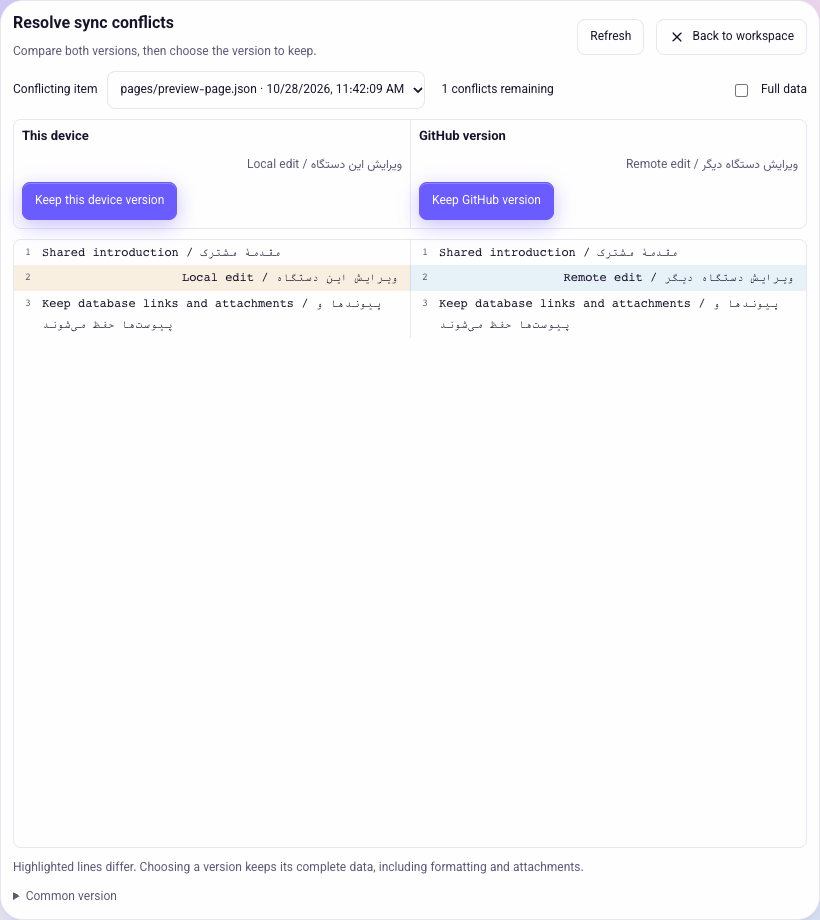
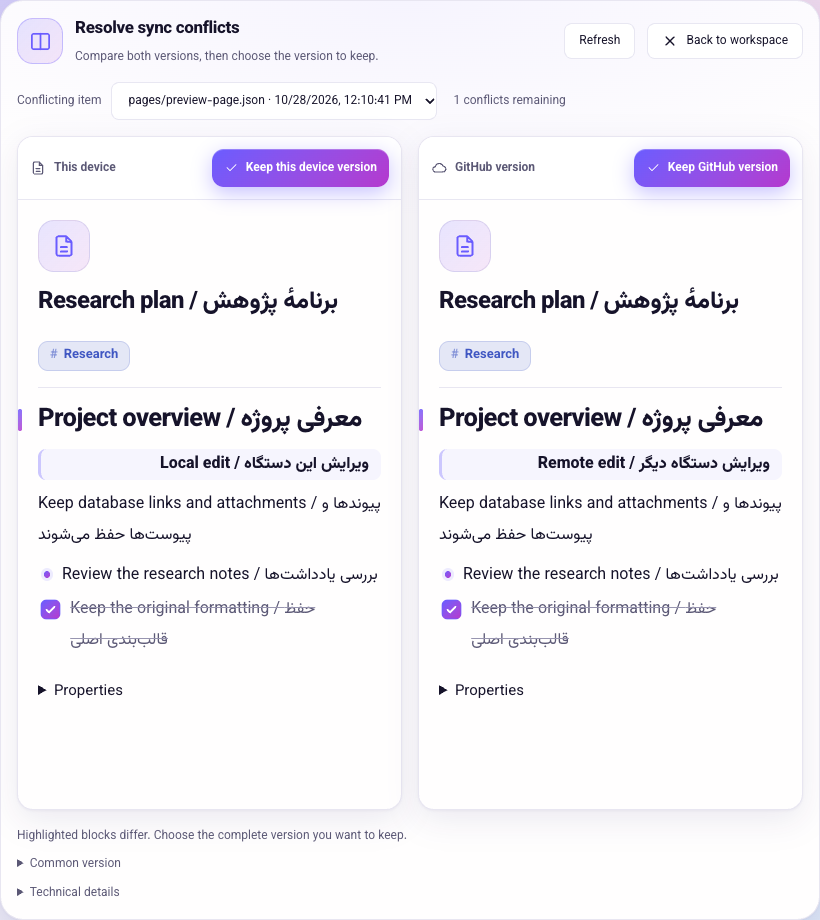
fix(ui): render conflict documents and add manual desktop builds

diff --git a/spike/tiptap/src/styles/conflict-review.css b/spike/tiptap/src/styles/conflict-review.css
@@ -1,13 +1,13 @@
-.conflict-review { display:flex; flex-direction:column; height:100%; min-height:0; color:var(--text); background:var(--bg); padding:20px; gap:16px; }
-.conflict-review button { display:inline-flex; align-items:center; justify-content:center; gap:7px; padding:8px 12px; border:1px solid var(--border); border-radius:var(--radius-sm); background:var(--bg); color:var(--text); cursor:pointer; font:inherit; font-size:12px; }
-.conflict-review button.primary { background:var(--accent); color:var(--on-accent, #fff); border-color:var(--accent); }
-.conflict-review button:disabled { opacity:.5; cursor:default; }
-.conflict-review :is(button,select,input,[tabindex]):focus-visible { outline:2px solid var(--accent); outline-offset:3px; }
-.cr-toolbar { display:flex; align-items:center; gap:12px; flex-wrap:wrap; }
-.cr-toolbar h2 { margin:0; font-size:19px; }.cr-toolbar p { color:var(--muted); margin:6px 0 0; font-size:12px; }
-.cr-selector { display:flex; align-items:center; gap:16px; flex-wrap:wrap; font-size:12px; }.cr-selector label { display:flex; align-items:center; gap:10px; min-width:0; }.cr-selector select { max-width:min(480px,55vw); min-width:0; background:var(--bg); color:var(--text); border:1px solid var(--border); border-radius:var(--radius-sm); padding:8px; }.cr-raw { margin-inline-start:auto; }
-.cr-headings { display:grid; grid-template-columns:minmax(0,1fr) minmax(0,1fr); border:1px solid var(--border); border-radius:var(--radius-sm); }.cr-headings>div { display:flex; flex-wrap:wrap; align-items:center; gap:8px 12px; padding:12px; min-width:0; }.cr-headings>div+div { border-left:1px solid var(--border); }.cr-headings b { font-size:13px; }.cr-headings span { width:100%; overflow-wrap:anywhere; font-size:12px; color:var(--muted); }.cr-headings small { width:100%; font-size:11px; color:var(--muted); }
-.cr-diff { flex:1; min-height:150px; overflow:auto; border:1px solid var(--border); border-radius:var(--radius-sm); font-family:var(--font-mono, monospace); font-size:12px; line-height:1.8; }.cr-line { display:grid; grid-template-columns:minmax(0,1fr) minmax(0,1fr); }.cr-line>div { display:flex; min-width:0; padding:2px 12px 2px 0; }.cr-line>div+div { border-left:1px solid var(--border); }.cr-line>div>span:last-child { white-space:pre-wrap; overflow-wrap:anywhere; flex:1; min-width:0; }.cr-number { flex:0 0 44px; text-align:center; color:var(--muted); user-select:none; font-size:10px; }.cr-line.changed>div:first-child { background:color-mix(in srgb, #d69b35 15%,var(--bg)); }.cr-line.changed>div:last-child { background:color-mix(in srgb, #56a6d9 15%,var(--bg)); }.cr-line.changed>div.gap { background:var(--hover); }
-.cr-footer { color:var(--muted); font-size:12px; line-height:1.7; }.cr-footer details { margin-top:8px; }.cr-footer pre { max-height:180px; overflow:auto; white-space:pre-wrap; overflow-wrap:anywhere; }.cr-empty { margin:auto; text-align:center; }.cr-error { padding:12px; background:var(--accent-bg); border:1px solid var(--border); border-radius:var(--radius-sm); overflow-wrap:anywhere; }
+/* Aurora Paper: shared editor typography, neutral paper surfaces and the user's accent. */
+.conflict-review { display:flex; flex-direction:column; height:100%; min-height:0; padding:24px; gap:20px; color:var(--text); font-family:var(--font); }
+.conflict-review button:not(.primary) { display:inline-flex; align-items:center; justify-content:center; gap:8px; padding:8px 14px; border:1px solid var(--border); border-radius:var(--radius-sm); background:var(--bg-raised); color:var(--text); font:inherit; font-size:12px; cursor:var(--cursor-hand,pointer); transition:background .15s var(--ease),border-color .15s var(--ease); }
+.conflict-review button:not(.primary):hover { background:var(--hover); border-color:var(--border-strong); }.conflict-review button:disabled { opacity:.45; cursor:default; }
+.cr-toolbar { display:flex; align-items:center; gap:12px; flex-wrap:wrap; }.cr-feature-icon { display:grid; place-items:center; flex:none; width:46px; height:46px; border:1px solid var(--accent-ring); border-radius:var(--radius-lg); background:var(--grad-soft); color:var(--accent); }.cr-toolbar h2 { margin:0; font-size:19px; font-weight:800; letter-spacing:-.02em; }.cr-toolbar p { color:var(--muted); margin:5px 0 0; font-size:12px; }
+.cr-selector { display:flex; align-items:center; gap:16px; flex-wrap:wrap; font-size:12px; color:var(--muted); }.cr-selector label { display:flex; align-items:center; gap:10px; min-width:0; }.cr-selector select { max-width:min(480px,55vw); min-width:0; padding:8px 12px; border:1px solid var(--border); border-radius:var(--radius-sm); background:var(--bg-raised); color:var(--text); }
+.cr-panes { display:grid; grid-template-columns:minmax(0,1fr) minmax(0,1fr); gap:16px; flex:1; min-height:180px; }.cr-pane { display:flex; flex-direction:column; min-width:0; min-height:0; overflow:hidden; border:1px solid var(--border); border-radius:var(--radius-lg); background:var(--bg); box-shadow:var(--panel-shadow); }.cr-pane-head { display:flex; align-items:center; justify-content:space-between; flex-wrap:wrap; gap:12px; padding:14px 16px; border-bottom:1px solid var(--border); background:var(--bg-raised); }.cr-side-label { display:flex; align-items:center; gap:8px; font-size:12px; color:var(--muted); }.cr-pane-head .primary { display:inline-flex; align-items:center; gap:7px; font-size:12px; padding:8px 12px; }
+.cr-pane-scroll { flex:1; min-height:0; overflow:auto; scrollbar-gutter:stable; }.cr-document { padding:28px; overflow-wrap:anywhere; }.cr-document .title { font-size:clamp(24px,2.7vw,36px); margin:12px 0; }.cr-page-icon { display:inline-flex; padding:12px; background:var(--grad-soft); color:var(--accent); border:1px solid var(--border); border-radius:var(--radius-lg); }.cr-page-meta { display:flex; align-items:center; flex-wrap:wrap; gap:8px; padding-bottom:16px; margin-bottom:16px; border-bottom:1px solid var(--border); font-size:12px; color:var(--muted); }.cr-document .tiptap { min-height:0; }.cr-document .tiptap> :first-child { margin-top:0; }.cr-document .tiptap>.cr-block-changed { background:var(--accent-soft); border-inline-start:3px solid var(--accent-ring); border-radius:var(--radius-sm); padding-inline:12px; }.cr-document .tiptap [data-type='database-embed'] { min-height:56px; border:1px solid var(--border); border-radius:var(--radius); background:var(--bg-sunk); }.cr-document .tiptap [data-type='database-embed']::before { content:attr(data-container); font-size:12px; color:var(--muted); padding:12px; display:block; }.cr-document .tiptap input:disabled { cursor:default; }
+.cr-fields { margin:0; }.cr-fields>div { padding:12px 0; border-bottom:1px solid var(--border); }.cr-fields dt { color:var(--muted); font-size:12px; margin-bottom:6px; }.cr-fields dd { margin:0; font-size:14px; }.cr-fields .cr-fields { margin-inline-start:12px; }.cr-field-empty { color:var(--faint); }.cr-plain-text { white-space:pre-wrap; font-size:var(--editor-size,16px); line-height:1.8; }.cr-properties { margin-top:24px; }.cr-version-empty { display:grid; place-content:center; min-height:200px; padding:24px; text-align:center; color:var(--muted); font-size:13px; }
+.cr-footer { color:var(--muted); font-size:12px; line-height:1.7; max-height:25vh; overflow:auto; }.cr-footer details { margin-top:8px; }.cr-footer summary { cursor:var(--cursor-hand,pointer); }.cr-footer pre { max-height:180px; overflow:auto; white-space:pre-wrap; overflow-wrap:anywhere; font-family:var(--mono); }.cr-technical { display:grid; grid-template-columns:minmax(0,1fr) minmax(0,1fr); gap:16px; margin-top:12px; }.cr-empty { margin:auto; text-align:center; }.cr-empty svg { color:var(--ok); }.cr-error { padding:12px; background:var(--accent-bg); border:1px solid var(--border); border-radius:var(--radius); overflow-wrap:anywhere; }
 .sync-conflict { color:var(--accent); }.main:has(.conflict-review)>.scroller { display:flex; flex:1; min-height:0; overflow:hidden; }.main:has(.conflict-review) .conflict-review { flex:1; min-width:0; }
-@media(max-width:900px) { .conflict-review { padding:12px; gap:10px; }.cr-toolbar h2 { font-size:16px; }.cr-headings>div { padding:8px; }.cr-number { flex-basis:28px; } }
+@media(max-width:1000px) { .conflict-review { padding:16px; gap:16px; }.cr-document { padding:20px; }.cr-pane-head { padding:12px; }.cr-toolbar h2 { font-size:17px; } }
+@media(prefers-reduced-motion:reduce) { .conflict-review button { transition:none; } }

diff --git a/spike/tiptap/src/ConflictReview.tsx b/spike/tiptap/src/ConflictReview.tsx
@@ -3,6 +3,7 @@ import { repo } from './store'
 import { t } from './i18n'
 import { githubAction, saveForSync, type SyncConflict } from './syncActions'
 import { compareLines, conflictVersion } from './conflictDiff'
+import { ConflictDocument } from './ConflictDocument'
 import * as Ic from './icons'
 import './styles/conflict-review.css'
 
@@ -12,7 +13,6 @@ export function ConflictReview({ onClose }: { onClose: () => void }) {
   const [busy, setBusy] = useState(false)
   const [error, setError] = useState('')
   const [loading, setLoading] = useState(true)
-  const [raw, setRaw] = useState(false)
   const alive = useRef(true)
   const refresh = useCallback(async () => {
     const next = await githubAction<SyncConflict[]>('conflicts')
@@ -29,7 +29,14 @@ export function ConflictReview({ onClose }: { onClose: () => void }) {
   const conflict = rows.find(c => c.id === selected)
   const left = useMemo(() => conflictVersion(conflict?.local ?? null), [conflict?.local])
   const right = useMemo(() => conflictVersion(conflict?.remote ?? null), [conflict?.remote])
-  const diff = useMemo(() => compareLines(raw ? left.raw : left.text, raw ? right.raw : right.text), [left, right, raw])
+  const changes = useMemo(() => {
+    const blocks = (raw: string) => { try { const v = JSON.parse(raw); return (v.type === 'doc' ? v.content : v.content?.content)?.map((b: unknown) => JSON.stringify(b)).join('\n') ?? '' } catch { return '' } }
+    const aligned = compareLines(blocks(left.raw), blocks(right.raw))
+    const local: number[] = [], remote: number[] = []
+    let l = 0, r = 0
+    for (const row of aligned) { if (row.left !== null) { if (row.changed) local.push(l); l++ }; if (row.right !== null) { if (row.changed) remote.push(r); r++ } }
+    return { local, remote }
+  }, [left.raw, right.raw])
   const resolve = async (choice: string) => {
     if (!conflict || busy) return
     setBusy(true); setError('')
@@ -40,24 +47,21 @@ export function ConflictReview({ onClose }: { onClose: () => void }) {
       await refresh()
     } catch (e) { setError(String(e)) } finally { setBusy(false) }
   }
-  let localLine = 0, remoteLine = 0
   return <section className="conflict-review" aria-label={t('Resolve sync conflicts')}>
-    <header className="cr-toolbar"><div><h2>{t('Resolve sync conflicts')}</h2><p>{t('Compare both versions, then choose the version to keep.')}</p></div><span className="spacer" /><button disabled={busy} onClick={() => void refresh().catch(e => setError(String(e)))}>{t('Refresh')}</button><button disabled={busy} onClick={onClose}><Ic.Close size={16} />{t('Back to workspace')}</button></header>
+    <header className="cr-toolbar"><span className="cr-feature-icon"><Ic.Columns size={23} /></span><div><h2>{t('Resolve sync conflicts')}</h2><p>{t('Compare both versions, then choose the version to keep.')}</p></div><span className="spacer" /><button disabled={busy} onClick={() => void refresh().catch(e => setError(String(e)))}>{t('Refresh')}</button><button disabled={busy} onClick={onClose}><Ic.Close size={16} />{t('Back to workspace')}</button></header>
     {error && <div role="alert" className="cr-error">{error}</div>}
     {loading ? <p role="status">{t('Loading…')}</p> : !conflict ? <div className="cr-empty" role="status"><Ic.Check size={32} /><h3>{t('No unresolved conflicts.')}</h3><button onClick={onClose}>{t('Back to workspace')}</button></div> : <>
-      <div className="cr-selector"><label>{t('Conflicting item')}<select value={selected} disabled={busy} onChange={e => setSelected(e.target.value)}>{rows.map(c => <option key={c.id} value={c.id}>{c.path} · {new Date(c.createdAt).toLocaleString()}</option>)}</select></label><span>{t('{count} conflicts remaining', { count: rows.length })}</span><label className="cr-raw"><input type="checkbox" checked={raw} onChange={e => setRaw(e.target.checked)} />{t('Full data')}</label></div>
-      <div className="cr-headings" dir="ltr">{(['local', 'remote'] as const).map(side => {
-        const version = side === 'local' ? left : right
-        const absent = conflict[side] === null
-        return <div key={side} dir="auto"><b>{t(side === 'local' ? 'This device' : 'GitHub version')}</b><span dir="auto">{version.title || conflict.path}</span><button className="primary" disabled={busy || (absent && !conflict.deleted)} onClick={() => void resolve(absent ? 'delete' : side)}>{t(absent ? 'Keep deletion' : side === 'local' ? 'Keep this device version' : 'Keep GitHub version')}</button>{absent && <small>{t('This version has no file.')}</small>}{version.binary && <small>{t('Binary attachment — choose a version or inspect the original file.')}</small>}</div>
-      })}</div>
-      <div className="cr-diff" dir="ltr" role="region" aria-label={t('Version comparison')} tabIndex={0}>
-        {diff.map((line, i) => <div className={'cr-line' + (line.changed ? ' changed' : '')} key={i}>
-          <div className={line.left === null ? 'gap' : ''}><span className="cr-number" aria-hidden="true">{line.left !== null ? ++localLine : ''}</span><span dir="auto">{line.left ?? ' '}</span></div>
-          <div className={line.right === null ? 'gap' : ''}><span className="cr-number" aria-hidden="true">{line.right !== null ? ++remoteLine : ''}</span><span dir="auto">{line.right ?? ' '}</span></div>
-        </div>)}
+      <div className="cr-selector"><label>{t('Conflicting item')}<select value={selected} disabled={busy} onChange={e => setSelected(e.target.value)}>{rows.map(c => <option key={c.id} value={c.id}>{c.path} · {new Date(c.createdAt).toLocaleString()}</option>)}</select></label><span>{t('{count} conflicts remaining', { count: rows.length })}</span></div>
+      <div className="cr-panes" dir="ltr" role="region" aria-label={t('Version comparison')}>
+        {(['local', 'remote'] as const).map(side => {
+          const absent = conflict[side] === null
+          return <section className="cr-pane" key={side} dir="auto" aria-label={t(side === 'local' ? 'This device' : 'GitHub version')}>
+            <header className="cr-pane-head"><span className="cr-side-label">{side === 'local' ? <Ic.Page size={16} /> : <Ic.Cloud size={16} />}<b>{t(side === 'local' ? 'This device' : 'GitHub version')}</b></span><button className="primary" disabled={busy || (absent && !conflict.deleted)} onClick={() => void resolve(absent ? 'delete' : side)}><Ic.Check size={15} />{t(absent ? 'Keep deletion' : side === 'local' ? 'Keep this device version' : 'Keep GitHub version')}</button></header>
+            <div className="cr-pane-scroll" tabIndex={0}><ConflictDocument encoded={conflict[side]} changed={changes[side]} /></div>
+          </section>
+        })}
       </div>
-      <footer className="cr-footer">{conflict.deleted && conflict.local !== null && conflict.remote !== null && <button disabled={busy} onClick={() => void resolve('delete')}>{t('Keep deletion')}</button>}<span>{t('Highlighted lines differ. Choosing a version keeps its complete data, including formatting and attachments.')}</span><details><summary>{t('Common version')}</summary><pre dir="auto">{conflictVersion(conflict.base).raw || t('Version unavailable')}</pre></details></footer>
+      <footer className="cr-footer">{conflict.deleted && conflict.local !== null && conflict.remote !== null && <button disabled={busy} onClick={() => void resolve('delete')}>{t('Keep deletion')}</button>}<span>{t('Highlighted blocks differ. Choose the complete version you want to keep.')}</span><details><summary>{t('Common version')}</summary><ConflictDocument encoded={conflict.base} /></details><details><summary>{t('Technical details')}</summary><div className="cr-technical">{(['local', 'remote'] as const).map(side => <div key={side}><b>{t(side === 'local' ? 'This device' : 'GitHub version')}</b><pre dir="ltr">{conflictVersion(conflict[side]).raw || t('Version unavailable')}</pre></div>)}</div></details></footer>
     </>}
   </section>
 }

diff --git a/spike/tiptap/src/ConflictDocument.tsx b/spike/tiptap/src/ConflictDocument.tsx
@@ -1,0 +1,42 @@
+import { useEffect, useMemo, useRef } from 'react'
+import { docToHtml, hydrate } from './render'
+import { contentProblem } from './editor/contentSafety'
+import { extensions } from './editor/extensions'
+import { getSchema } from '@tiptap/core'
+import { conflictVersion } from './conflictDiff'
+import { iconNode } from './iconSet'
+import { t } from './i18n'
+import * as Ic from './icons'
+
+function Fields({ value }: { value: unknown }) {
+  if (value === null || value === undefined) return <span className="cr-field-empty">—</span>
+  if (typeof value !== 'object') return <span dir="auto">{typeof value === 'boolean' ? t(value ? 'Yes' : 'No') : String(value)}</span>
+  return <dl className="cr-fields">{Object.entries(value).map(([key, field]) => <div key={key}><dt>{t(key.replace(/([a-z])([A-Z])/g, '$1 $2').replaceAll('_', ' '))}</dt><dd><Fields value={field} /></dd></div>)}</dl>
+}
+export function ConflictDocument({ encoded, changed = [] }: { encoded: string | null; changed?: number[] }) {
+  const root = useRef<HTMLDivElement>(null)
+  const version = useMemo(() => conflictVersion(encoded), [encoded])
+  const data = useMemo(() => { try { return JSON.parse(version.raw) } catch { return null } }, [version.raw])
+  const tags: string[] = Array.isArray(data?.tags) ? data.tags.filter((tag: unknown) => typeof tag === 'string') : []
+  const content = data?.type === 'doc' ? data : data?.content
+  const html = useMemo(() => {
+    if (!content || contentProblem(content, getSchema(extensions))) return null
+    return docToHtml(content)
+  }, [content])
+  useEffect(() => {
+    const element = root.current
+    if (!element || html === null) return
+    // Use the same schema/styles/hydration as the editor's history preview. No save callback or mutable database UI is mounted.
+    Array.from(element.children).forEach((child, index) => child.classList.toggle('cr-block-changed', changed.includes(index)))
+    for (const input of element.querySelectorAll('input')) input.disabled = true
+    void hydrate(element).catch(() => {})
+  }, [html, changed])
+  if (encoded === null) return <div className="cr-version-empty"><p>{t('This version has no file.')}</p></div>
+  if (version.binary) return <div className="cr-version-empty"><p>{t('Binary attachment — choose a version or inspect the original file.')}</p></div>
+  return <article className="cr-document" dir="auto">
+    {version.title && <header className="page-head"><div className="cr-page-icon">{typeof data.icon === 'string' && data.icon ? iconNode(data.icon, 26) : <Ic.Page size={26} />}</div><h1 className="title" dir={data.titleDir || 'auto'}>{version.title}</h1></header>}
+    {(tags.length > 0 || typeof data?.status === 'string') && <div className="cr-page-meta">{tags.map((tag: string) => <span className="tag-chip static" key={tag}>{tag}</span>)}{typeof data?.status === 'string' && <span>{t(data.status)}</span>}</div>}
+    {html !== null ? <div ref={root} className="tiptap" onClick={e => { if ((e.target as Element).closest('a')) e.preventDefault() }} dangerouslySetInnerHTML={{ __html: html }} /> : data ? <Fields value={data} /> : <p className="cr-plain-text">{version.text}</p>}
+    {html !== null && data?.database && <details className="cr-properties"><summary>{t('Properties')}</summary><Fields value={data.database} /></details>}
+  </article>
+}

diff --git a/spike/tiptap/dev/github-sync-preview.tsx b/spike/tiptap/dev/github-sync-preview.tsx
@@ -3,7 +3,7 @@ const params = new URLSearchParams(location.search)
 const scenario = params.get('state') ?? 'connected'
 const lang = params.get('lang') === 'fa' ? 'fa' : 'en'
 localStorage.setItem('not.settings', JSON.stringify({ lang, theme: params.get('theme') ?? 'light', dir: 'auto' }))
-const version = (title: string) => btoa(unescape(encodeURIComponent(JSON.stringify({ id: 'preview-page', title, parentId: null, tags: ['Research'], content: { type: 'doc', content: [{ type: 'paragraph', content: [{ type: 'text', text: 'Shared introduction / مقدمهٔ مشترک' }] }, { type: 'paragraph', content: [{ type: 'text', text: title }] }, { type: 'paragraph', content: [{ type: 'text', text: 'Keep database links and attachments / پیوندها و پیوستها حفظ میشوند' }] }] }, database: { sourceId: 'source-1', values: { status: 'draft' } } }))))
+const version = (title: string) => btoa(unescape(encodeURIComponent(JSON.stringify({ id: 'preview-page', title: 'Research plan / برنامهٔ پژوهش', parentId: null, tags: ['Research'], content: { type: 'doc', content: [{ type: 'heading', attrs: { level: 2 }, content: [{ type: 'text', text: 'Project overview / معرفی پروژه' }] }, { type: 'paragraph', content: [{ type: 'text', marks: [{ type: 'bold' }], text: title }] }, { type: 'paragraph', content: [{ type: 'text', text: 'Keep database links and attachments / پیوندها و پیوستها حفظ میشوند' }] }, { type: 'bulletList', content: [{ type: 'listItem', content: [{ type: 'paragraph', content: [{ type: 'text', text: 'Review the research notes / بررسی یادداشتها' }] }] }] }, { type: 'taskList', content: [{ type: 'taskItem', attrs: { checked: true }, content: [{ type: 'paragraph', content: [{ type: 'text', text: 'Keep the original formatting / حفظ قالببندی اصلی' }] }] }] }] }, database: { sourceId: 'source-1', values: { status: 'draft' } } }))))
 const binding = { owner: 'preview-user', repo: 'noviq-data', branch: 'main', repo_id: 42, vault: 'preview-vault', quiet_seconds: 15, poll_seconds: 120, backup: '/Application Support/Noviq/github/backups/preview-vault-123' }
 let setupAllowed = false, setupAttempted = false
 const resolved = new Set<string>()

diff --git a/spike/tiptap/src/fa.ts b/spike/tiptap/src/fa.ts
@@ -1,5 +1,7 @@
 // English → Persian UI strings (see i18n.ts). Generated once from the original Persian UI, edit freely.
 export const FA: Record<string, string> = {
+  "Highlighted blocks differ. Choose the complete version you want to keep.": "بخشهای مشخصشده تفاوت دارند. نسخهٔ کاملی را که میخواهید نگه دارید انتخاب کنید.",
+  "Technical details": "جزئیات فنی",
   "Resolve sync conflicts": "رفع تداخل همگامسازی",
   "Compare both versions, then choose the version to keep.": "دو نسخه را مقایسه کنید و نسخهای را که میخواهید نگه دارید انتخاب کنید.",
   "Back to workspace": "بازگشت به فضای کاری",

diff --git a/docs/desktop-builds.md b/docs/desktop-builds.md
@@ -1,0 +1,45 @@
+# ساخت نسخهٔ دسکتاپ از برنچ جاری
+
+پوش معمولی دیگر نصبکننده نمیسازد. این اسکریپت از checkout جاری استفاده میکند؛ نام برنچ ثابت نیست و هیچ مرج، نصب برنامه، انتشار عمومی یا تغییری در برنچ اصلی انجام نمیدهد.
+
+## ساخت روی سیستم فعلی
+
+از داخل پوشهٔ پروژه:
+
+```sh
+node scripts/build-desktop.mjs
+```
+
+روی مک یک بستهٔ Universal برای Intel و Apple Silicon میسازد؛ روی ویندوز x64 فایل نصب `.exe` میسازد. خروجی بههمراه `SHA256SUMS.txt` و `BUILD-INFO.json` در `artifacts/github-preview/macos` یا `artifacts/github-preview/windows` قرار میگیرد. فایل مشخصات، کامیت، برنچ و وجود تغییرات کامیتنشده را ثبت میکند؛ فایل محلی دارای تغییرات کامیتنشده پسوند `-dirty` دارد.
+
+پیشنیازها: Node.js 22.12+ یا 24+، Rust/rustup و ابزارهای بومی Tauri سیستمعامل (روی مک Xcode Command Line Tools؛ روی ویندوز C++ Build Tools و WebView2). اگر وابستگیهای npm نصب نباشند، اسکریپت `npm ci` را اجرا میکند. روی مک targetهای هر دو معماری را از طریق rustup آماده میکند. میتوانید در `spike/tiptap` هم `npm run desktop:build` را اجرا کنید.
+
+## ساخت همزمان مک و ویندوز روی GitHub
+
+ابتدا تغییرات را کامیت کنید. GitHub CLI باید نصب باشد و با `gh auth login` وارد حسابی شده باشید که روی `origin` اجازهٔ پوش دارد:
+
+```sh
+node scripts/build-desktop.mjs --both
+```
+
+اسکریپت SHA جاری را به یک برنچ ساخت جدید با پیشوند `build/desktop/` پوش میکند. checkout فعلی جابهجا نمیشود، کامیت تازهای ساخته نمیشود و هیچ force-push، تگ یا مرجی انجام نمیشود. workflow هر دو نصبکننده را میسازد؛ اسکریپت منتظر نتیجه میماند و artifactها را در `artifacts/github-preview/downloads/` دریافت میکند. برنچ ساخت برای پیگیری نتیجه باقی میماند. برنچ مبدأ باید فایلهای فعلی اسکریپت و workflow را داشته باشد؛ این قابلیت به نام مشخصی برای برنچ مبدأ وابسته نیست.
+
+برای صفکردن ساخت و گرفتن لینک، بدون انتظار برای دانلود:
+
+```sh
+node scripts/build-desktop.mjs --both --no-wait
+```
+
+استفاده از یک ref ساخت با رویداد push باعث میشود این روش پیش از مرج workflow به برنچ اصلی هم کار کند. `workflow_dispatch` به وجود workflow در برنچ پیشفرض نیاز دارد. [مستندات GitHub دربارهٔ اجرای workflow](https://docs.github.com/en/actions/how-tos/manage-workflow-runs/manually-run-a-workflow)
+
+## بررسی دستورها بدون ساخت
+
+```sh
+node scripts/build-desktop.mjs --dry-run
+node scripts/build-desktop.mjs --both --dry-run
+node --test scripts/build-desktop.test.mjs
+```
+
+`--dry-run` فقط برنامهٔ اجرا را نشان میدهد؛ چیزی نصب یا ساخته نمیشود و هیچ پوشی انجام نمیگیرد. ساخت محلی میتواند ویرایشهای کامیتنشده را شامل شود؛ ساخت GitHub برای جلوگیری از خروجی مبهم به checkout تمیز نیاز دارد.
+
+بستهها همان نسخهٔ آزمایشی جداگانه با شناسه و Keychain مستقل، GitHub فعال، بدون امضا/notarization و بدون بهروزرسان خودکار هستند. برای تست از فضای کاری جدید یا کپی دادهها استفاده کنید.

diff --git a/docs/github-sync-validation.md b/docs/github-sync-validation.md
@@ -66,3 +66,11 @@ Validation: 100 Rust tests passed (11 external/legacy tests ignored); 39 fronten
 
 - [Persian workspace comparison](validation/github-sync/workspace-conflicts-fa.png)
 - [English workspace comparison](validation/github-sync/workspace-conflicts-en.png)
+
+## Rendered conflict documents and manual builds
+
+The workspace comparison now renders note content using the same schema, hydration and `.tiptap` styles as the editor/history preview. Headings, marks, lists, task state and document properties remain readable; the previews do not register save callbacks and task inputs are disabled. Differing blocks use the configured accent tokens. Raw data is behind a collapsed technical-details section. Both columns, paper surfaces, radii, typography and action controls use Aurora Paper tokens. Non-note records are shown as labeled fields, and selecting a side still resolves the original complete archived bytes.
+
+The preview workflow no longer builds on ordinary feature-branch pushes. `scripts/build-desktop.mjs` builds the current checkout locally, or explicitly creates a separate `build/desktop/` ref for both GitHub runner platforms. It supports dry runs, reports source SHA/branch/dirty state, and does not merge or install. See [desktop build instructions](desktop-builds.md). The preceding installer run had already completed when the user requested stopping builds. No new installer was built to validate this change.
+
+Validation: TypeScript checking, 39 structural tests, and two build-script tests passed. Mock-native Chrome checks passed for rendered headings, bold text, disabled task controls, changed-block highlighting, all version choices, raw-data access, installation continuation/cancellation and saving before manual sync. Persian dark and English light views were inspected. Script dry runs did not push, build or install; GitHub orchestration and native packaging were not executed for this revision.
